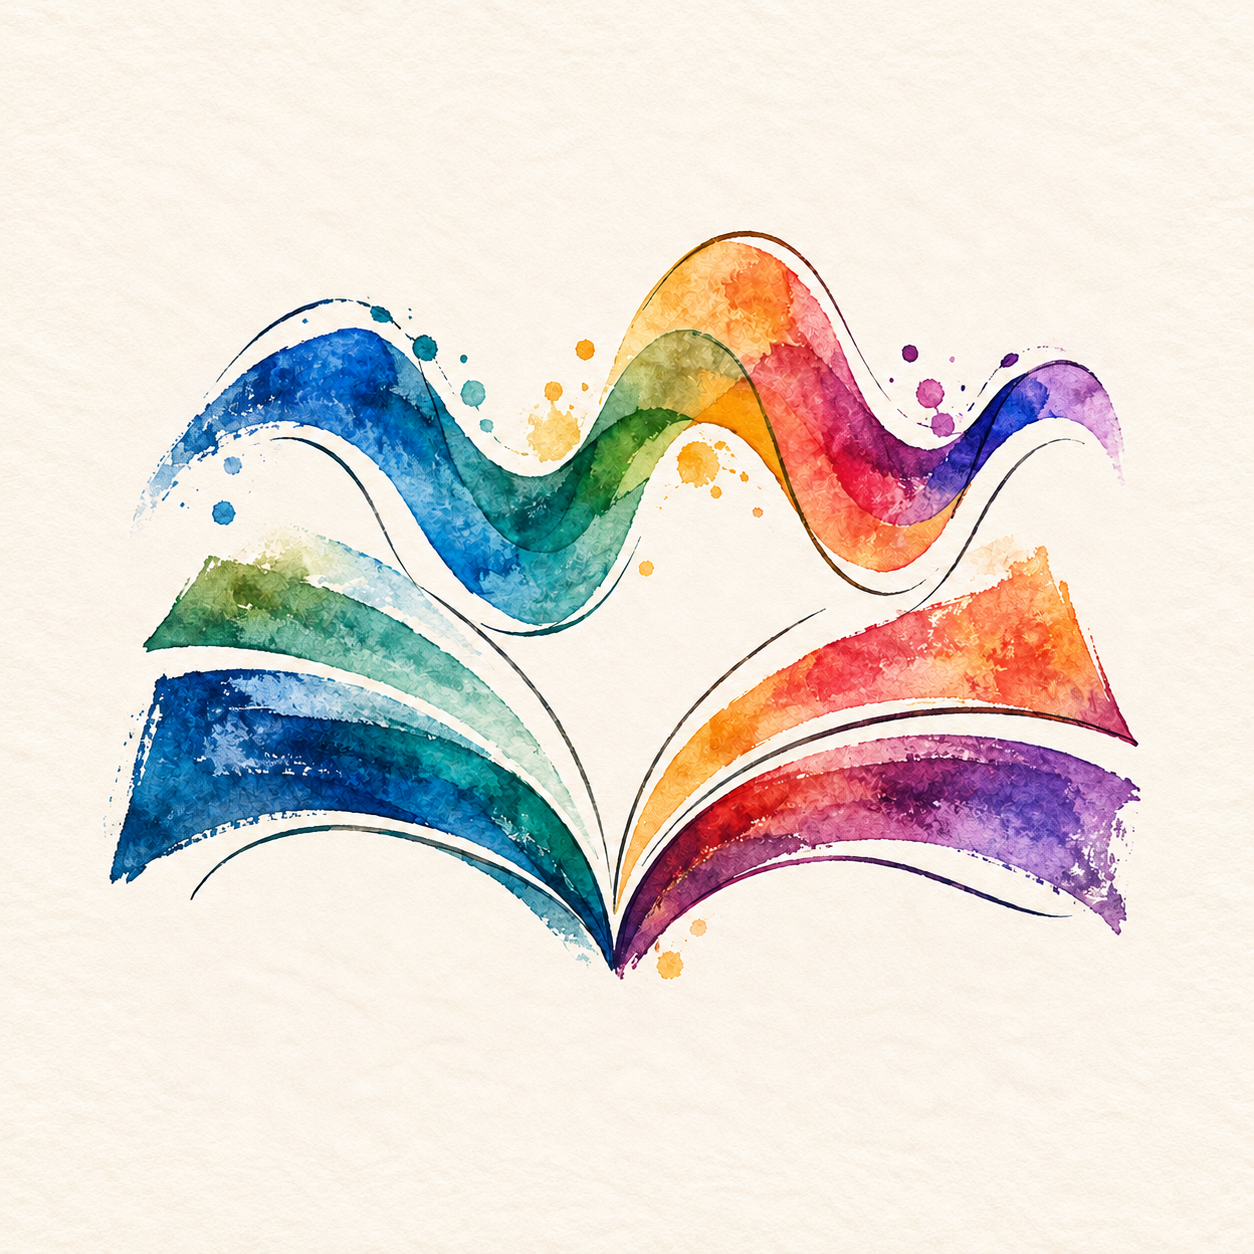
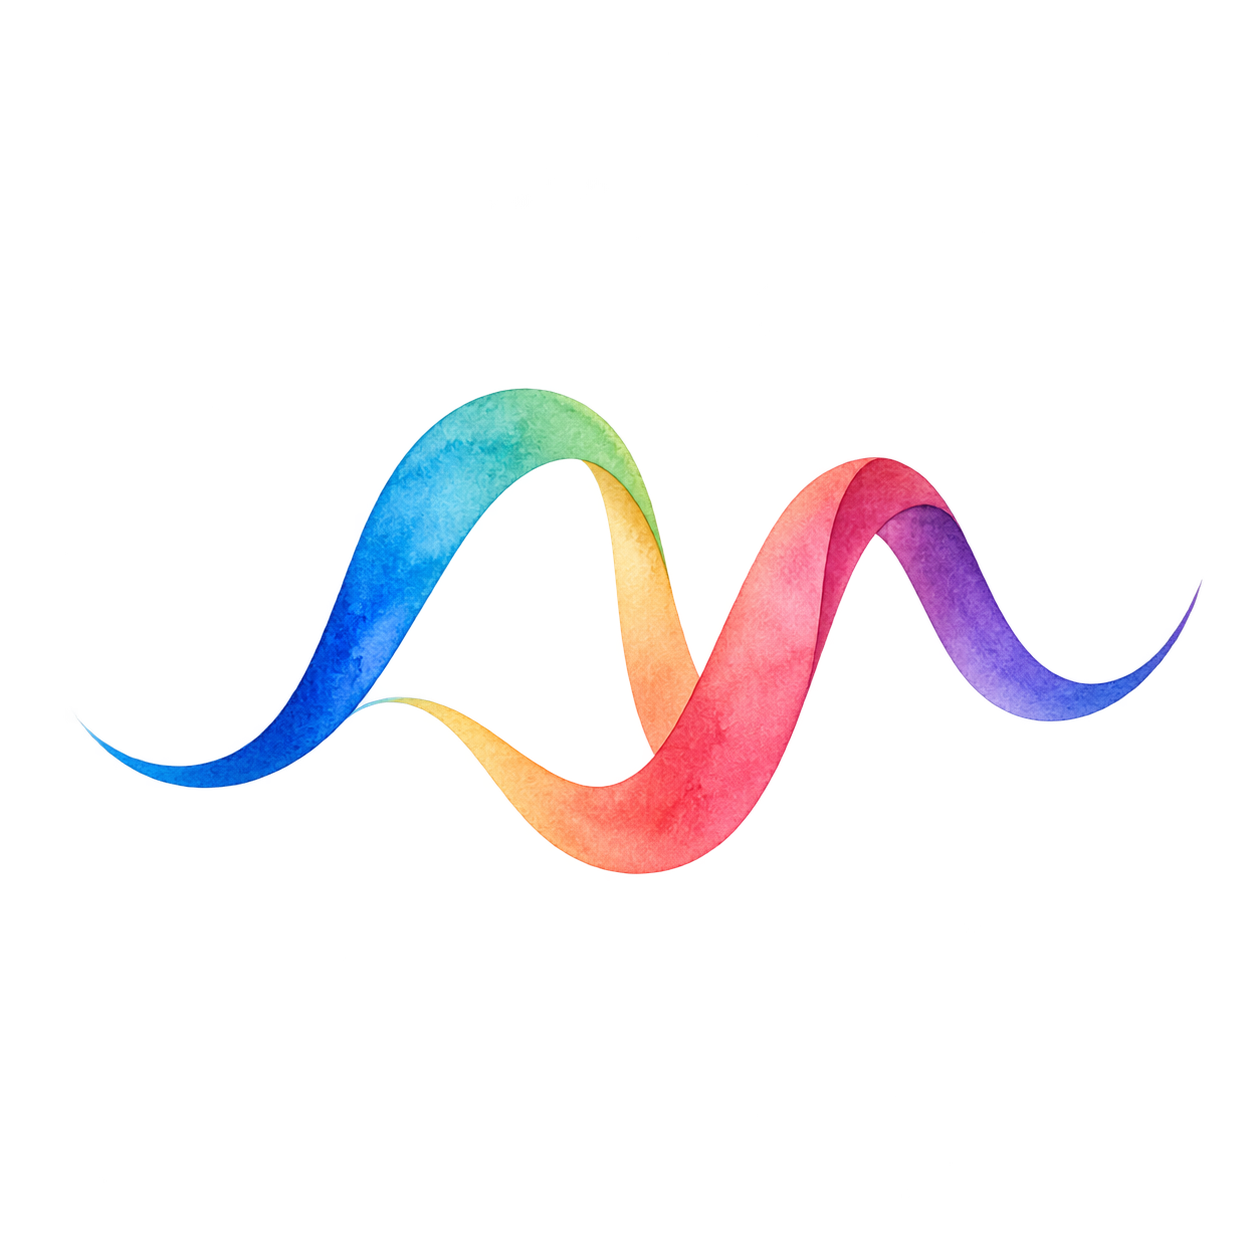
feat: refine classroom identity across devices

diff --git a/assistant_service/app.py b/assistant_service/app.py
@@ -169,7 +169,7 @@ def create_app(settings=None, store=None, manager=None, *, run_workers=True):
 
     @app.get("/health")
     def health():
-        return {"app": "scut-local-assistant", "version": "0.10.1"}
+        return {"app": "scut-local-assistant", "version": "0.10.2"}
 
     @app.get("/api/health")
     def diagnostics():

diff --git a/assets/identity/ICON.md b/assets/identity/ICON.md
@@ -1,19 +1,14 @@
-# Painted classroom icon
+# Quiet ribbon identity
 
-The user requested a richly colored, artistic icon with visible paint texture and delicate lines, without a glossy plastic appearance. The final artwork combines a watercolor book and sound wave on warm matte paper.
+The final mark is one continuous watercolor ribbon. Its two soft movements suggest attentive listening and the turning rhythm of a lesson without drawing a literal book, waveform or notification symbol. The generous negative space and controlled silhouette keep it calm at phone-launcher and browser-toolbar sizes.
 
 - Source: [painted-master.png](painted-master.png).
-- Production UI asset: [extension/brand.png](../../extension/brand.png).
+- Production UI asset: [extension/brand.png](../../extension/brand.png), with a transparent background.
 - Toolbar/notification PNG sizes: 16, 32, 48, 128 and 512 pixels in `extension/icons/`.
+- Android adaptive foreground and legacy square/round launcher sizes are generated under `mobile/android/app/src/main/res/`.
 - Created with the built-in image_gen tool. No external stock artwork was used.
 - `scripts/generate_icon.ps1` downsamples the approved master using native System.Drawing; it does not regenerate or repaint the design.
 
 ## Generation prompt
 
-Use case: logo-brand. Create one finished square app icon for a thoughtful classroom transcription and learning assistant. An artistic, richly multicolored hand-painted emblem: two airy curved brush gestures subtly suggest an open book and a flowing sound wave, elegantly interlaced with a few exquisitely fine, tapering charcoal-ink contour lines. Genuine matte watercolor and gouache pigment texture, translucent color blooms, dry-brush grain, softly irregular natural edges. Many sophisticated colors visible across the emblem: ultramarine, teal, emerald, vermilion, magenta, violet and warm yellow ochre, with luminous spaces between them; harmonious painterly color rather than a regular digital rainbow gradient. A clear memorable silhouette readable as a small browser toolbar icon, central symbol occupies about 80 percent of the square, generous clean negative space. Subtle warm off-white watercolor-paper rounded-square tile, completely transparent pixels outside its gently rounded corners; flat front-on icon artwork, no surrounding scene. The fine lines add delicacy but the underlying painted silhouette stays clear at 32 pixels. No lettering, no numbers, no watermark, no mockup, no metallic edges, no 3D extrusion, no plastic, no glass, no gloss, no bevel, no shadows. Premium contemporary art-publishing identity, quiet and expressive. Output a single icon, not a contact sheet. High-quality square PNG.
-
-## Final background edit
-
-The initial output simulated transparency with a visible checkerboard. A second built-in edit replaced that background; the shipped master uses opaque ivory paper, not simulated transparency.
-
-Edit this icon. Keep the multicolored watercolor open book and flowing sound-wave artwork, delicate ink lines, composition, scale, all pigment colors and matte paper texture unchanged. Change only the background: remove ALL gray checkerboard completely and extend the warm ivory watercolor paper seamlessly to fill the entire square canvas, right out to all four edges and all corners. A single flat paper square with the artwork on it, no rounded-square tile edge, no border, no drop shadow, no transparency simulation, no checker pattern anywhere. Do not add text or gloss. Deliver the finished square app icon artwork.
+Use case: logo-brand. Create a refined, restrained, gentle multicolor icon for a classroom transcription and reminder assistant. Design one memorable continuous ribbon-like mark that subtly suggests both an open page and a quiet audio waveform, without literally drawing a book or equalizer. Use elegant contemporary watercolor ink with precise fine-line structure and painterly pigment contained inside the controlled stroke. Transition harmoniously through cobalt blue, cyan, jade, warm coral, raspberry, violet and a restrained touch of amber. Keep a strong simple silhouette, broad safe margin and genuinely transparent background. No text, letters, border, container, shadow, starburst, sun, sparkles, dots, splashes, plastic 3D, glossy effects, thick blobs or busy detail.

diff --git a/README.md b/README.md
@@ -64,7 +64,7 @@
 安装 `SCUT 课堂提醒` Android App 后，即使离开电脑、锁屏或切到其他 App，也能收到点名签到、扫码互动、教师提问、课堂测验、作业要求、课程安排、评分要求和特别提醒。
 
 1. 在电脑端进入 **偏好设置 → 提醒与存储 → 手机课堂提醒**，生成配对二维码。
-2. 手机安装 `dist/SCUT-Classroom-Alerts-v0.9.1.apk`，允许通知，然后扫描二维码。
+2. 手机安装 `dist/SCUT-Classroom-Alerts-v0.10.2.apk`，允许通知，然后扫描二维码。
 3. 保持手机 App 中的“后台监听”开启。系统会显示一条低打扰的常驻状态通知；重要课堂信息使用高优先级通知单独弹出。
 
 电脑端只发送 DeepSeek 已结合上下文确认的课堂事件，不发送本地关键词产生的“疑似”提醒。提醒先进入本机可靠队列，断网后自动补发，并按课时和事件内容去重。
